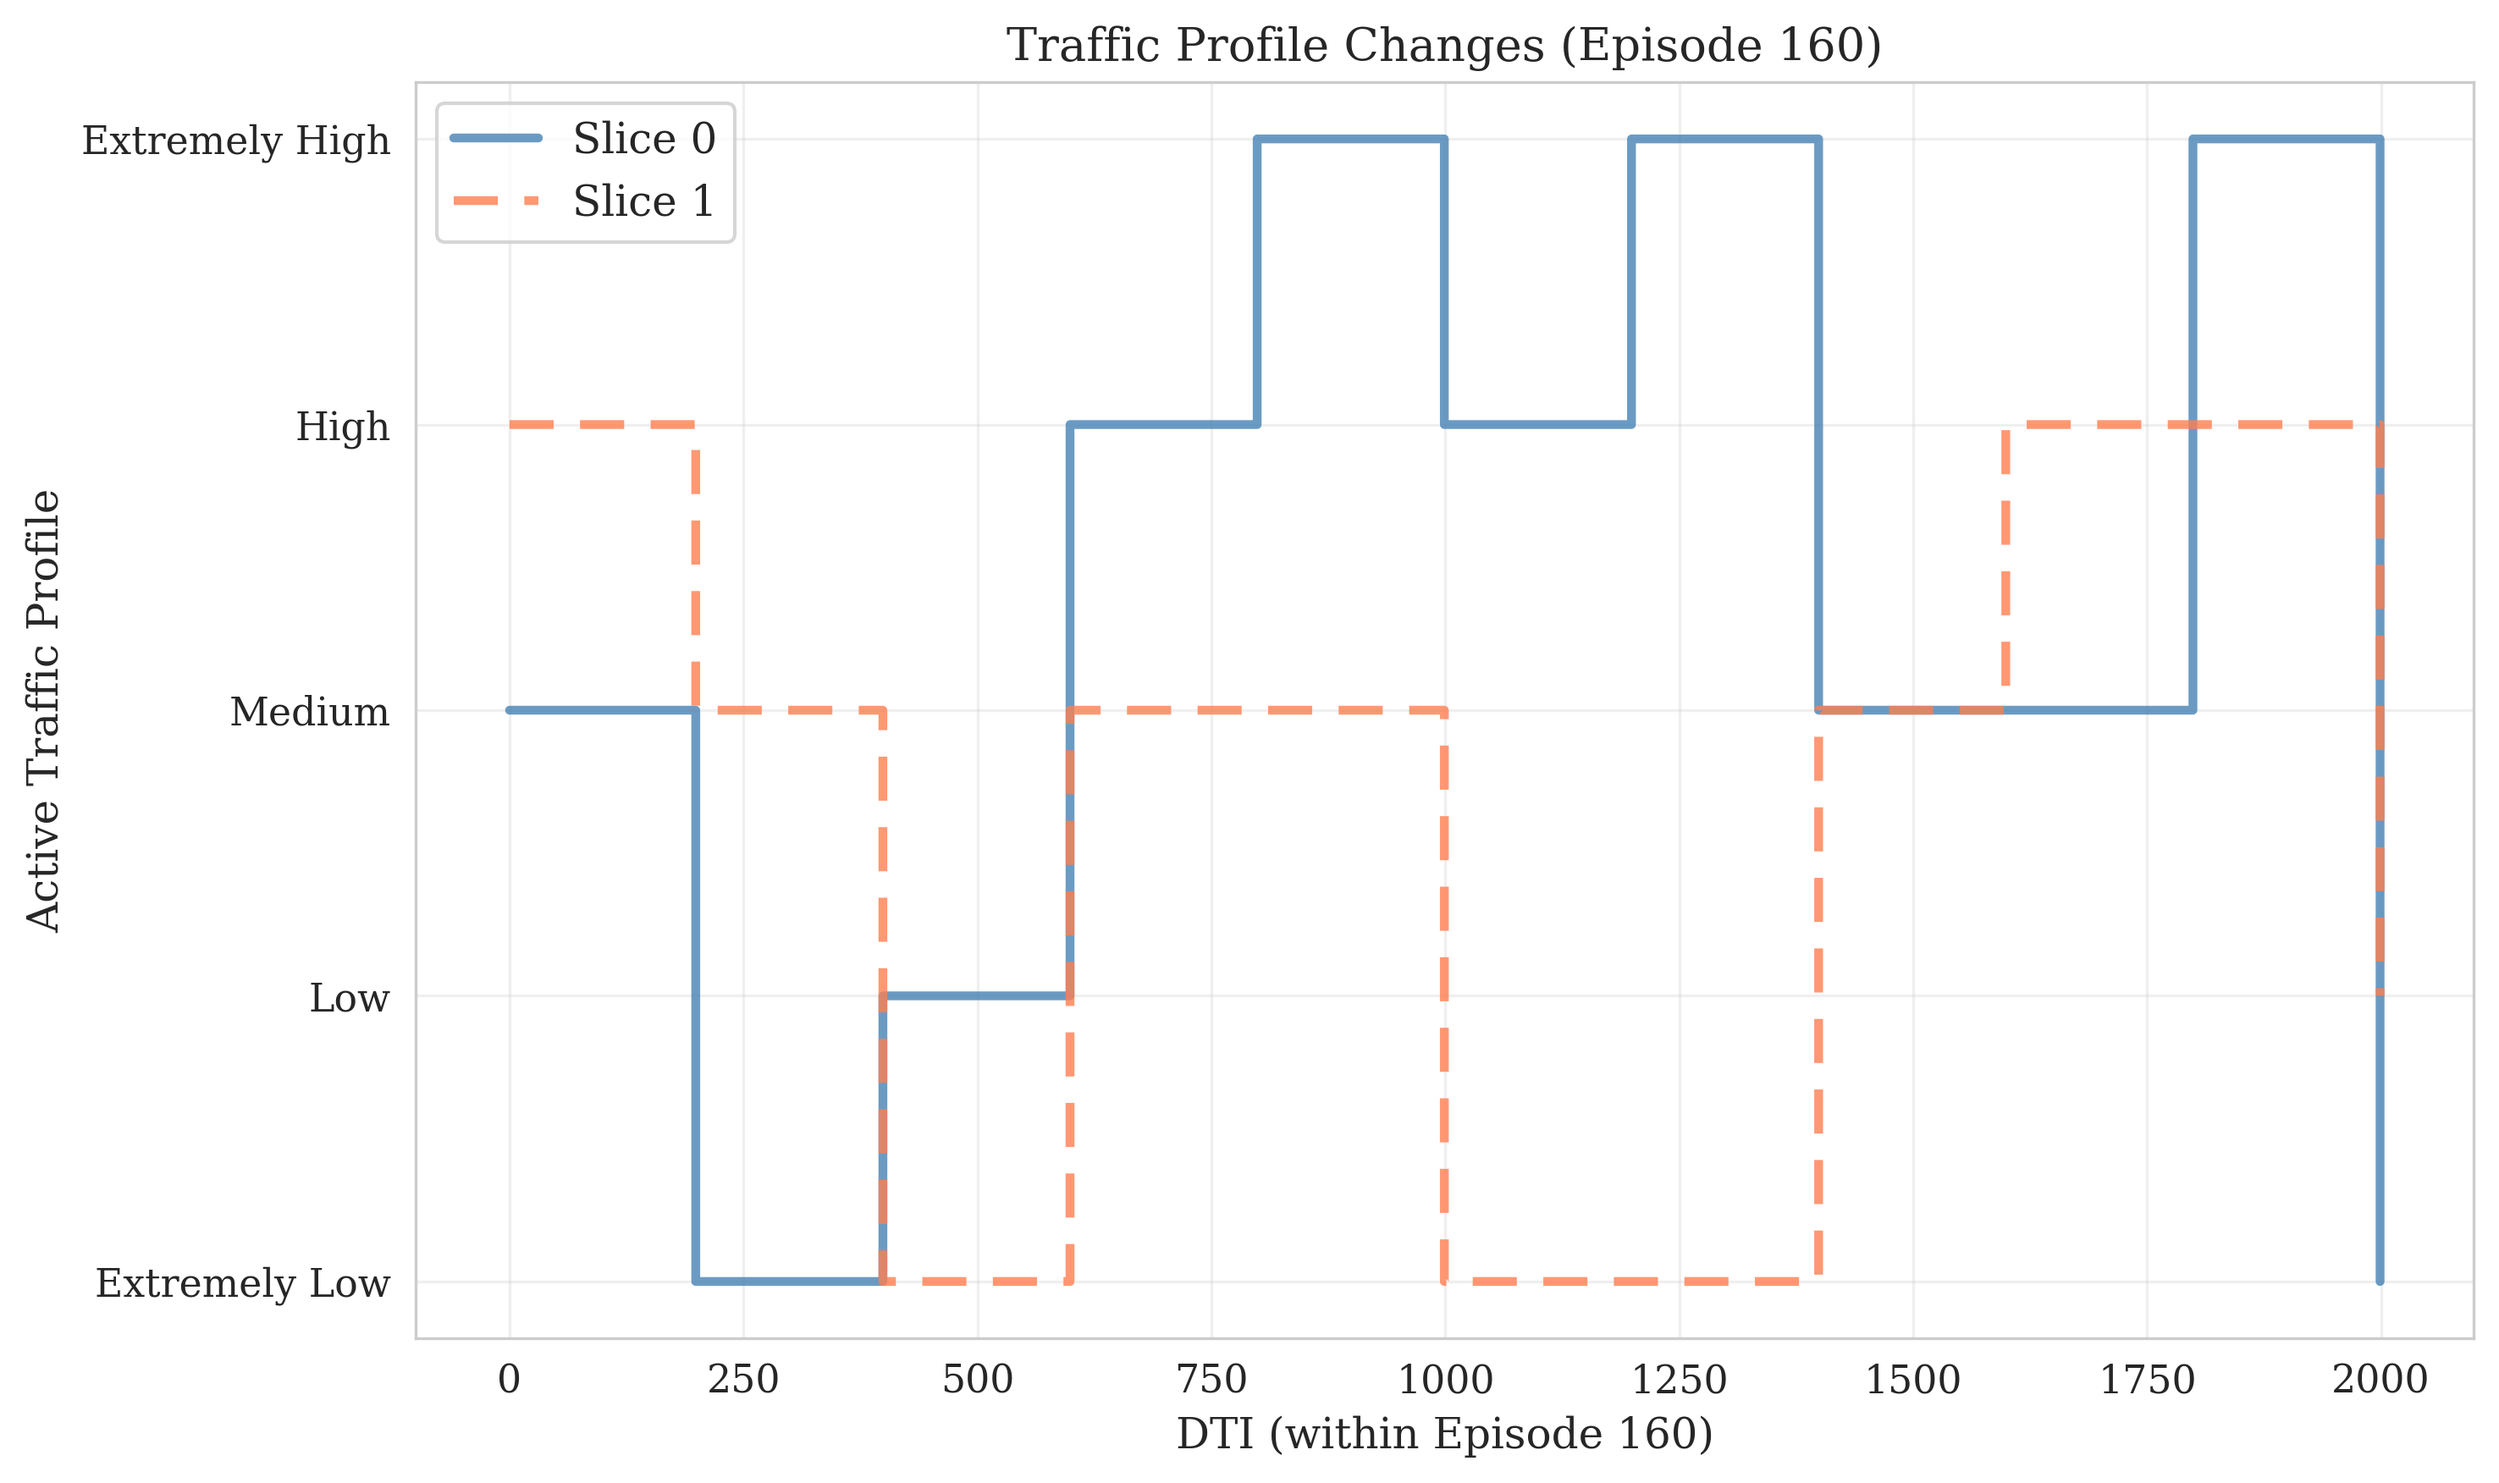
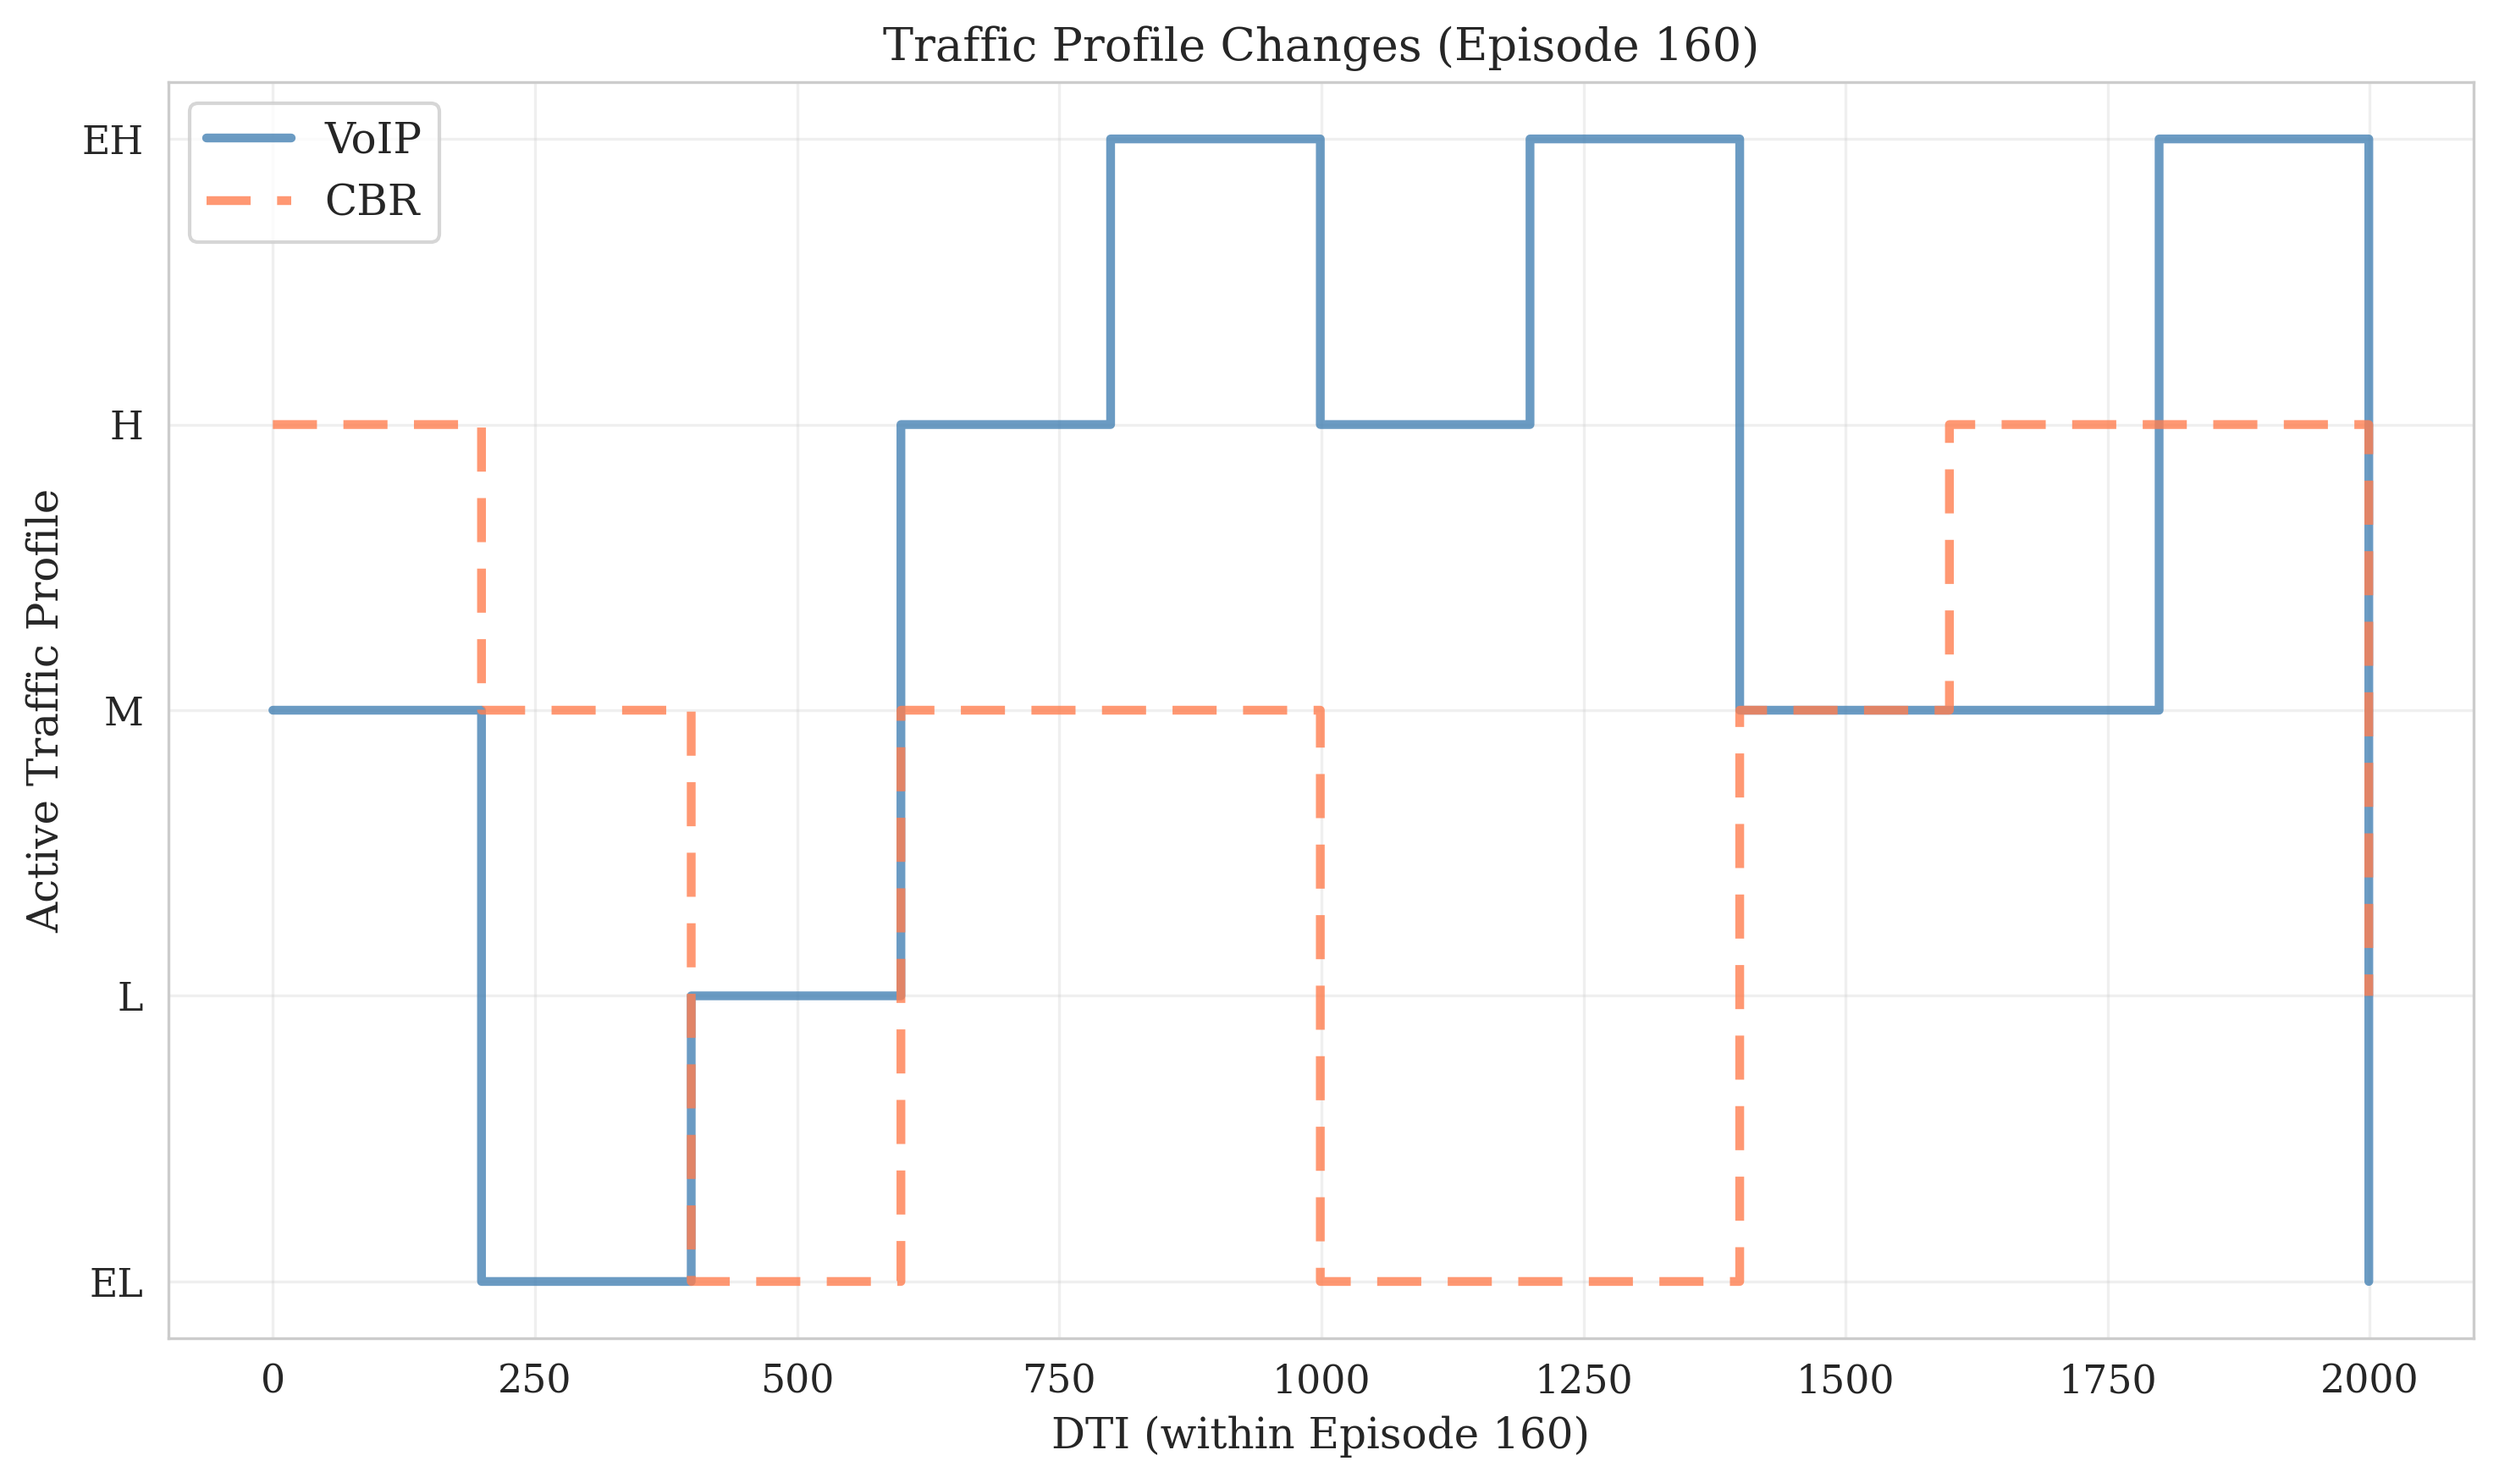
ver3.7

diff --git a/figures_dynamic.py b/figures_dynamic.py
@@ -29,13 +29,13 @@ from plot_style import (
 )
 
 _PROFILE_NAMES = {
-    0: 'Uniform',
-    1: 'Extremely Low',
-    2: 'Low',
-    3: 'Medium',
-    4: 'High',
-    5: 'Extremely High',
-    6: 'External',
+    0: 'U',
+    1: 'EL',
+    2: 'L',
+    3: 'M',
+    4: 'H',
+    5: 'EH',
+    6: 'Ext',
 }
 
 
@@ -84,7 +84,7 @@ def fig5_dynamic_scenarios(exps_by_cat, output_dir):
         _fig5b_allocation_timeseries(exp, output_dir, suffix)
 
         # Episode 80
-        _fig5_episode_profiles(data, output_dir, episode=80,
+        _fig5_episode_profiles(exp, data, output_dir, episode=80,
                                 label=f'fig5c{suffix}')
         _fig5_allocation_periods(exp, output_dir, episode=80,
                                  label_prefix=f'fig5d{suffix}')
@@ -94,7 +94,7 @@ def fig5_dynamic_scenarios(exps_by_cat, output_dir):
                               label=f'fig5d3{suffix}')
 
         # Episode 160
-        _fig5_episode_profiles(data, output_dir, episode=160,
+        _fig5_episode_profiles(exp, data, output_dir, episode=160,
                                 label=f'fig5e{suffix}')
         _fig5_allocation_periods(exp, output_dir, episode=160,
                                  label_prefix=f'fig5f{suffix}')
@@ -146,17 +146,22 @@ def _fig5b_allocation_timeseries(exp, output_dir, suffix=''):
     _save(fig, output_dir, f'fig5b_dynamic_allocation{suffix}')
 
 
-def _fig5_episode_profiles(data, output_dir, episode, label):
+def _ep_slice_label(slice_labels, idx):
+    """Return slice_labels[idx] if available, else 'Slice N'."""
+    return slice_labels[idx] if idx < len(slice_labels) else f'Slice {idx}'
+
+
+def _fig5_episode_profiles(exp, data, output_dir, episode, label):
     """
     Active traffic profiles within a single episode.
 
     Uses the per-episode keys logged directly by step1:
       episode_{N}/active_profile_slice0  →  ep{N}_active_profile_slice0
       episode_{N}/active_profile_slice1  →  ep{N}_active_profile_slice1
-    The x-axis index is the position within the episode's values list (0-based DTI).
-    Y-axis ticks are derived from the profile integer values actually present in
-    the data, mapped through _PROFILE_NAMES where available.
+    Y-axis ticks use abbreviations (EL, L, M, H, EH) from _PROFILE_NAMES.
+    Legend uses slice_labels from the experiment (e.g. VoIP, CBR).
     """
+    profile_labels = exp.get('slice_labels', [])
     s0_key = f'ep{episode}_active_profile_slice0'
     s1_key = f'ep{episode}_active_profile_slice1'
     if s0_key not in data or s1_key not in data:
@@ -174,7 +179,7 @@ def _fig5_episode_profiles(data, output_dir, episode, label):
         kw = dict(where='post', alpha=0.8, linewidth=2.5, linestyle=ls, color=color)
         if dashes[0] is not None:
             kw['dashes'] = dashes
-        ax.step(dtis, values, label=f'Slice {idx}', **kw)
+        ax.step(dtis, values, label=_ep_slice_label(profile_labels, idx), **kw)
 
     # Build yticks only from profile IDs actually present in the data
     present_ids = sorted(set(int(v) for v in all_values))
@@ -301,15 +306,11 @@ def _fig5_continuous_beta(data, output_dir, episode, label):
 
     steps = data[ep_key].get('steps', list(range(len(data[ep_key]['values']))))
     fig, ax = plt.subplots(figsize=(14, 6))
-    ax.plot(steps, data[ep_key]['values'], color='red', alpha=0.8, linewidth=2.0,
-            label='β (QoS Violation Ratio)')
-    ax.axhline(y=0, color='green', linestyle='--', alpha=0.3, linewidth=1,
-               label='Perfect QoS (β=0)')
+    ax.plot(steps, data[ep_key]['values'], color='red', alpha=0.8, linewidth=2.0)
     ax.set_xlabel(f'DTI (within Episode {episode})', fontsize=12)
     ax.set_ylabel(LABEL_BETA, fontsize=12)
     ax.set_title(f'QoS Violation Ratio Over Time (Episode {episode})',
                  fontsize=14, fontweight='bold')
-    ax.legend(loc='best', framealpha=0.9)
     ax.grid(True, alpha=0.3)
     ax.set_ylim([0, 1.05])
     _save(fig, output_dir, f'{label}_continuous_beta_ep{episode}')
@@ -327,10 +328,10 @@ def fig_actor_loss_comparison(experiments, output_dir):
     for exp in experiments:
         if exp['category'] == 'static_heterogeneous' and len(to_plot) == 0:
             if 'episode_actor_loss' in exp.get('data', {}):
-                to_plot.append(('Heterogeneous', exp, 'coral'))
+                to_plot.append(('Heterogeneous', exp, '#e41a1c'))
         elif exp['category'] == 'dynamic' and len(to_plot) <= 1:
             if 'episode_actor_loss' in exp.get('data', {}):
-                to_plot.append(('Dynamic', exp, 'steelblue'))
+                to_plot.append(('Dynamic', exp, '#377eb8'))
         if len(to_plot) == 2:
             break
 
@@ -459,7 +460,6 @@ def fig_episode_per_slice_beta(experiments, output_dir, episode=80):
             label=f'{s0_name} β', color='steelblue', linewidth=1.5, alpha=0.7, linestyle='--')
     ax.plot(steps, np.array(data[s1_key]['values']),
             label=f'{s1_name} β', color='coral', linewidth=1.5, alpha=0.7, linestyle='--')
-    ax.axhline(y=0, color='green', linestyle='--', alpha=0.3, linewidth=1)
     ax.set_xlabel(f'DTI (within Episode {episode})', fontsize=12)
     ax.set_ylabel(LABEL_BETA, fontsize=12)
     ax.set_title(f'Per-Slice QoS Violations (Episode {episode})',
@@ -502,8 +502,8 @@ def fig_slice_beta_boxplot(experiments, output_dir):
     ax.grid(True, alpha=0.3, axis='y')
     ax.set_ylim([0, 1.0])
     ax.text(0.02, 0.98,
-            f"Slice 0: μ={fb0.mean():.3f}, σ={fb0.std():.3f}\n"
-            f"Slice 1: μ={fb1.mean():.3f}, σ={fb1.std():.3f}",
+            f"{s0_name}: μ={fb0.mean():.3f}, σ={fb0.std():.3f}\n"
+            f"{s1_name}: μ={fb1.mean():.3f}, σ={fb1.std():.3f}",
             transform=ax.transAxes, verticalalignment='top',
             bbox=dict(boxstyle='round', facecolor='wheat', alpha=0.5), fontsize=10)
     _save(fig, output_dir, 'fig_slice_beta_boxplot')

diff --git a/figures_static.py b/figures_static.py
@@ -167,7 +167,7 @@ def _bar_chart_metric(sorted_exps, metric, ylabel, title, color, out_path, label
     ax.set_ylabel(ylabel)
     ax.set_title(title)
     ax.set_xticks(x)
-    ax.set_xticklabels(profiles, rotation=45, ha='right')
+    ax.set_xticklabels(profiles)
     ax.grid(True, alpha=0.3, axis='y')
     plt.tight_layout()
     plt.savefig(out_path, dpi=FIGURE_DPI, bbox_inches='tight')
@@ -258,7 +258,7 @@ def fig2_static_homogeneous(exps_by_cat, baseline_data, output_dir):
     suffix = ' (SAC vs Baselines)' if has_bl else ''
     ax.set_title(f'Performance Across Static Homogeneous Traffic{suffix}')
     ax.set_xticks(x_pos)
-    ax.set_xticklabels(profiles, rotation=45, ha='right')
+    ax.set_xticklabels(profiles)
     ax.grid(True, alpha=0.3, axis='y')
     if has_bl:
         ax.legend(loc='best', framealpha=0.9)
@@ -342,7 +342,7 @@ def fig3_heterogeneous(exps_by_cat, baseline_data, output_dir):
     suffix = ' (SAC vs Baselines)' if has_bl else ''
     ax.set_title(f'Performance Under Heterogeneous Traffic{suffix}')
     ax.set_xticks(x_pos)
-    ax.set_xticklabels(scenarios, rotation=45, ha='right')
+    ax.set_xticklabels(scenarios)
     ax.grid(True, alpha=0.3, axis='y')
     if has_bl:
         ax.legend(loc='best', framealpha=0.9)
@@ -424,7 +424,6 @@ def fig4_allocation_patterns(experiments, output_dir):
     ax.set_title('Allocation Distribution Across Heterogeneous Scenarios (Episode 80)',
                  fontsize=14, fontweight='bold')
     ax.grid(True, alpha=0.3, axis='y')
-    plt.xticks(rotation=45, ha='right')
     plt.tight_layout()
     plt.savefig(os.path.join(output_dir, f'fig4_allocation_patterns.{FIGURE_FORMAT}'),
                 dpi=FIGURE_DPI, bbox_inches='tight')
